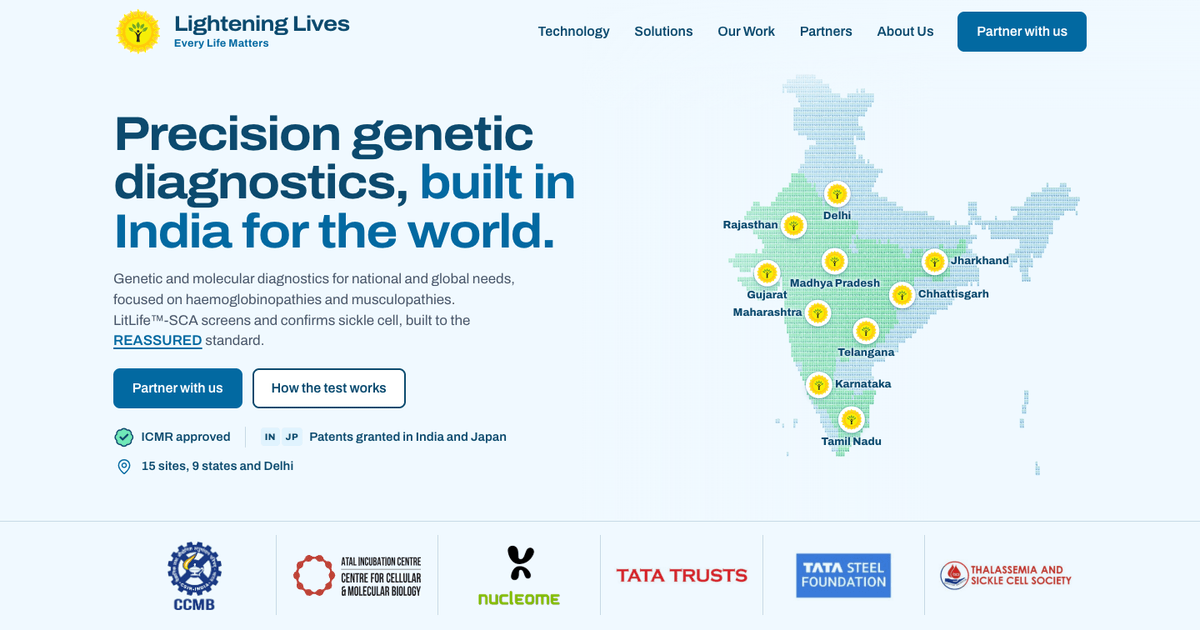
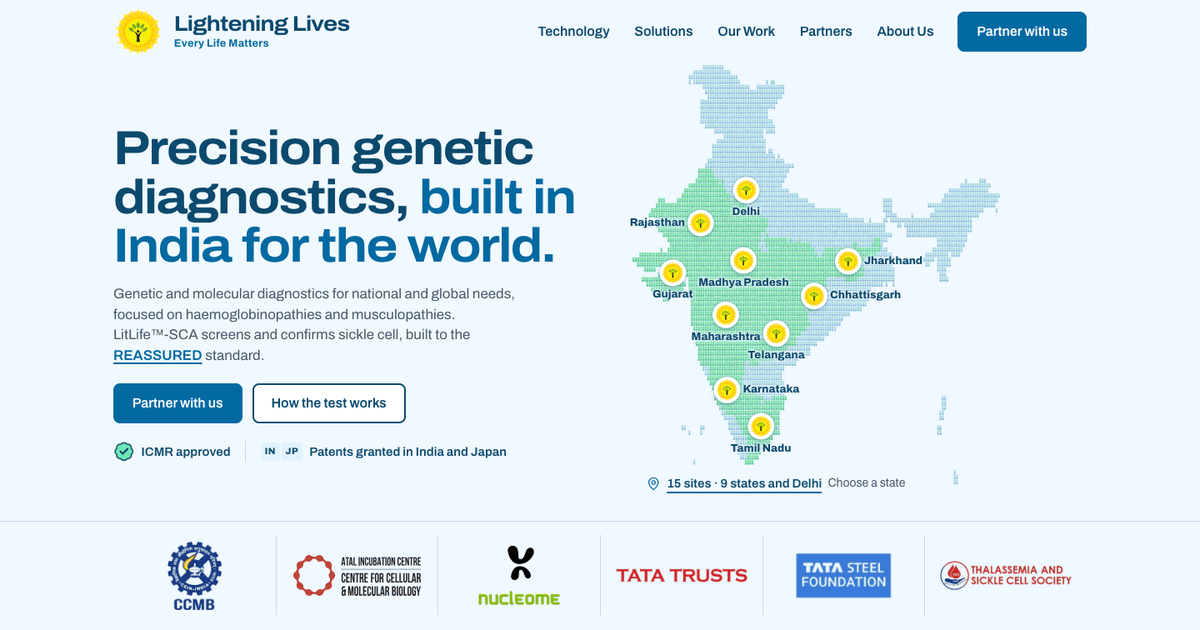
feat: enhance hero section layout and map key visibility based on user feedback

Changed region(s): [[0.0925, 0.181, 0.4933, 0.754], [0.5242, 0.0905, 0.8942, 0.7841], [0.7708, 0.6333, 0.8017, 0.6635]]

diff --git a/src/css/site.css b/src/css/site.css
@@ -1490,7 +1490,7 @@
   .why h3, .criteria h3, .person-name, .policy-h { font-size: 1.125rem; line-height: 1.25; font-stretch: var(--display-stretch); }
   .why p, .criteria p, .about > p { font-size: 1rem; line-height: 1.5; }
   .vision-line { font-size: clamp(1.5rem, 2.6vw, 2.35rem); line-height: 1.16; max-width: 56rem; }
-  .brand-name { font-size: 1.5rem; }
+  .brand-name { font-size: clamp(1.2rem, 5.4vw, 1.5rem); }
 
   /* Space. */
   .section { padding-block: var(--section-y); }
@@ -2968,4 +2968,106 @@ main p { text-wrap: pretty; }
   .page-kicker { margin-bottom: 1rem; }
   .page-open-stacked .page-open-rest { max-width: 54rem; }
   .page-open-stacked .lead { font-size: clamp(1.2rem, 1.7vw, 1.55rem); line-height: 1.6; }
+}
+
+/* The hero's use of space (the user's choice, 5 November 2026, after the impeccable critique:
+   "I feel we are not utilizing the space in the hero section"; "a lot of gap between map and heading").
+   1. Once the film has ended, the text's veil draws back to 1.75rem past the text, so no wash lies over
+      the map's west (it reached 27rem, for the field of cards while the film plays). The reach is a
+      registered length, so it eases. The film's timing is not touched.
+   2. On wide screens the hero, and the home page's header over it, keep to a frame as wide as the
+      text and the map need, so they sit together with even margins instead of a scaled-up column in
+      the middle; the hero's heading stops near 80 px there.
+   3. The map's key (.hero-key): the sites, under the map, once the film has ended (scene.js places it).
+   5. On a phone held upright the film's frame is as tall as the map needs, so the first button is on
+      the first screen (36rem: what the heading, the key, the lead and the space between them take; never
+      under 11rem, so the map stays readable on the smallest phones). */
+@property --veil-reach { syntax: "<length>"; inherits: true; initial-value: 0px; }
+@property --veil-top { syntax: "<length>"; inherits: true; initial-value: 0px; }
+:root {
+  /* As wide as the hero's composition, the text, the gap and the map (whose width its height sets,
+     about 61vh), so on any wide window the two sit together with even margins either side; never
+     narrower than the page's column, never wider than 88vw or 150rem. */
+  --hero-frame: clamp(82rem, calc(var(--text-w) + 2rem + 61vh + 2 * var(--pad)), min(88vw, 150rem));
+}
+@layer components {
+  /* While the film plays the veil reaches 27rem past the text (its field of cards lies behind it). A
+     registered property cannot start at a rem value, so the reach is set here, not in @property. */
+  .hero-veil { --veil-reach: 27rem; --veil-top: 8.25rem; }
+  .hero, :root:has(.hero) .site-header { --frame: var(--hero-frame); --gutter: max(var(--pad), calc((100% - var(--frame)) / 2 + var(--pad))); }
+  @media (min-width: 56.25rem) and (min-aspect-ratio: 21/20) {
+    html.film-live .hero-veil {
+      --veil-edge: var(--text-edge, calc(var(--gutter) + var(--text-w)));
+      background:
+        linear-gradient(180deg, var(--mist) 0, color-mix(in srgb, var(--mist) 90%, transparent) calc(var(--veil-top) * 0.55), transparent var(--veil-top)),
+        linear-gradient(90deg, var(--mist) 0, var(--mist) calc(var(--veil-edge) + 0.5rem),
+          color-mix(in srgb, var(--mist) 88%, transparent) calc(var(--veil-edge) + var(--veil-reach) * 0.148),
+          color-mix(in srgb, var(--mist) 62%, transparent) calc(var(--veil-edge) + var(--veil-reach) * 0.333),
+          color-mix(in srgb, var(--mist) 30%, transparent) calc(var(--veil-edge) + var(--veil-reach) * 0.556),
+          color-mix(in srgb, var(--mist) 10%, transparent) calc(var(--veil-edge) + var(--veil-reach) * 0.778),
+          transparent calc(var(--veil-edge) + var(--veil-reach)));
+      transition: --veil-reach 0.9s cubic-bezier(0.22, 1, 0.36, 1), --veil-top 0.9s cubic-bezier(0.22, 1, 0.36, 1);
+    }
+    [data-film-state="ended"] .hero-veil { --veil-reach: 1.75rem; --veil-top: 5.25rem; }
+  }
+  @media (min-width: 120rem) and (min-aspect-ratio: 21/20) {
+    html.film-live .hero .display { font-size: clamp(2.4rem, 4.3vw, 3.35rem); }
+  }
+
+  /* On a phone held upright, a row under the film; on a wide screen, under the map (scene.js sets
+     --key-x and --key-y); on a phone held sideways, left out. */
+  .hero-key {
+    order: 3;
+    display: flex;
+    flex-wrap: wrap;
+    align-items: center;
+    justify-content: center;
+    gap: 0.15rem 0.45rem;
+    margin: 0.4rem 0 0;
+    font-size: 0.9375rem;
+    font-weight: 600;
+    line-height: 1.3;
+    color: var(--canopy);
+    opacity: 0;
+    visibility: hidden;
+    transition: opacity 0.4s ease, visibility 0s linear 0.4s;
+  }
+  html:not(.film-live) .hero-key { display: none; }
+  @media (max-width: 56.2499rem) { .hero-key { gap: 0.1rem 0.35rem; font-size: 0.875rem; } .hero-key .icon { width: 0.95rem; height: 0.95rem; } .hero-key-hint { font-size: 0.8125rem; } }
+  @media (min-width: 56.25rem) and (min-aspect-ratio: 21/20) {
+    html.film-live .hero-key {
+      position: absolute;
+      z-index: 2;
+      left: var(--key-x, 75%);
+      top: var(--key-y, 85%);
+      transform: translateX(-50%);
+      display: grid;
+      grid-template-columns: auto auto;
+      justify-items: start;
+      width: max-content;
+      margin: 0;
+    }
+    html.film-live .hero-key-hint { grid-column: 2; }
+  }
+  /* A short wide window: one row, the hint after the sites, so the key stays clear of the pins. */
+  @media (min-width: 56.25rem) and (min-aspect-ratio: 21/20) and (max-height: 50rem) {
+    html.film-live .hero-key { grid-template-columns: auto auto auto; }
+    html.film-live .hero-key-hint { grid-column: auto; }
+  }
+  @media (max-width: 56.2499rem) and (max-height: 30rem) and (min-aspect-ratio: 21/20) { html.film-live .hero-key { display: none; } }
+  @media (max-width: 56.2499rem) and (max-height: 37.5rem) { html.film-live .hero-key { display: none; } } /* the shortest phones (320 by 568): the first button first */
+  .hero-key .icon { width: 1.05rem; height: 1.05rem; color: var(--leaf); }
+  .hero-key .link { color: var(--canopy); white-space: nowrap; }
+  .hero-key-hint { font-weight: 400; font-size: 0.875rem; color: var(--moss); }
+  [data-film-state="ended"] .hero-key { opacity: 1; visibility: visible; transition: opacity 0.6s ease 0.15s; }
+  @media (prefers-reduced-motion: reduce) { .hero-key, [data-film-state="ended"] .hero-key { transition: none; } }
+
+  @media (max-aspect-ratio: 1/1) {
+    html.film-live .film-screen { height: max(11rem, min(76vw, 58vh, calc(125vh - 36rem))); }
+  }
+  @supports (height: 100svh) {
+    @media (max-aspect-ratio: 1/1) {
+      html.film-live .film-screen { height: max(11rem, min(76vw, 58svh, calc(125svh - 36rem))); }
+    }
+  }
 }

diff --git a/src/js/site/scene.js b/src/js/site/scene.js
@@ -85,15 +85,16 @@ const SKY = Math.PI - KEY.intensity * (KEY.from.y / KEY.from.length());
 // the available width is the room the text leaves: from the text's widest line, plus `GAP` root ems,
 // to the right edge of the page's column (R3: the map once ran under the text on wide screens, where
 // a fixed share of the column was used). The subject sits a little low, clear of the header.
-const WIDE = { across: 0.96, up: 0.86, shiftY: -0.032 };
-const NARROW = { across: 0.9, up: 0.86, shiftY: 0 }; // the film in a frame of its own, text above and below
+const WIDE = { across: 0.96, up: 0.9, shiftY: -0.032 };
+const NARROW = { across: 0.92, up: 0.94, shiftY: 0 }; // the film in a frame of its own, text above and below
 // The room runs past the page's column, to EDGE root ems from the window's right edge: the client
 // review (P1, 27 October 2026) asked for a larger map where the space allows it. The map's far east
 // (the north-east states and the islands) may sit past the column; the pins stay well inside it.
 const EDGE = 2;
 const REACH = 8; // and never more than this many root ems past the column, so a very wide window keeps the map by the text
-const GAP = 4.5; // rem between the text's widest line and the subject's room: the page's veil is solid
-// for 3rem past that line and gone by 5rem (site.css, .hero-veil)
+const GAP = 2; // rem between the text's widest line and the subject's room: once the film has ended the
+// page's veil is solid to half a rem past that line and gone by 1.75rem (site.css, .hero-veil; 4.5rem
+// until 5 November 2026, when the user found "a lot of gap between map and heading")
 
 // The camera's one take. Each row is where the camera is at that second (`at`); between rows it
 // follows a smooth curve through them (see `curve`), so it has no stop to arrive at or to leave: it
@@ -383,6 +384,7 @@ function init(root) {
   const heroText = root.querySelector('[data-hero-text]');
   const placeList = root.querySelector('[data-places]');
   const placesWrap = root.querySelector('[data-places-wrap]');
+  const mapKey = root.querySelector('[data-hero-key]'); // the line under the map once the film ends (5 November 2026)
   const foot = root.querySelector('.hero-foot'); // the partners' band, laid over the film's foot on a wide screen
   const placeLabels = new Map([...root.querySelectorAll('[data-place]')].map((el) => [el.dataset.place, el]));
 
@@ -1019,6 +1021,19 @@ function init(root) {
         name.style.visibility = 'hidden';
       }
     });
+    // The map's key goes under the lowest pin or name, centred on them (site.css, .hero-key).
+    if (mapKey && taken.length) {
+      const l = Math.min(...taken.map((b) => b.l));
+      const rr = Math.max(...taken.map((b) => b.r));
+      // Never reaching back past the text: its left edge stays a rem clear of the text's widest line.
+      const half = (mapKey.offsetWidth || 0) / 2;
+      const x = Math.max((l + rr) / 2, (view.textRight ?? -Infinity) + half);
+      mapKey.style.setProperty('--key-x', `${x.toFixed(1)}px`);
+      // Under the lowest pin or name, and inside the frame (a phone held sideways has little height).
+      const rem = parseFloat(getComputedStyle(document.documentElement).fontSize) || 16;
+      const y = Math.min(Math.max(...taken.map((b) => b.b)) + 0.75 * rem, view.height - (view.band || 0) - (mapKey.offsetHeight || 0) - 0.5 * rem);
+      mapKey.style.setProperty('--key-y', `${y.toFixed(1)}px`);
+    }
   }
 
   // Whether the film is playing, paused (a hidden tab) or over, for the stylesheet.
@@ -1095,6 +1110,20 @@ function init(root) {
     heroText.querySelectorAll('a, button').forEach((el) => { edge = Math.max(edge, el.getBoundingClientRect().right); });
     return edge;
   }
+  // Where the subject's middle goes across the frame, in page pixels. In the wide layout, when the
+  // map's height is what limits it (it is narrower than its room), it keeps to the left of its room,
+  // beside the text, and the spare width lies beyond it rather than between it and the heading (the
+  // user, 5 November 2026: "a lot of gap between map and heading"). Otherwise it is centred.
+  function subjectCentre(room) {
+    const middle = room.left + room.width / 2;
+    if (view.layout !== WIDE) return middle;
+    const last = TAKE[TAKE.length - 1];
+    const tan = Math.tan((FOV * DEG) / 2);
+    const across = last.span / (2 * tan * view.aspect * view.across);
+    const up = last.tall / (2 * tan * view.up);
+    const used = across / Math.max(across, up); // the share of the subject's width that the map fills
+    return middle - (room.width * view.layout.across * (1 - used)) / 2;
+  }
   function resize() {
     const width = mount.clientWidth;
     const height = mount.clientHeight;
@@ -1119,7 +1148,6 @@ function init(root) {
       room = { left, width: Math.max(right - left, width * 0.2) };
     }
     view.across = (room.width * view.layout.across) / width;
-    view.shiftX = (room.left - whole.left + room.width / 2) / width - 0.5;
     // The opening is at least 36rem tall, so on a short window (a phone held sideways, a television's
     // browser at 960 by 540) it runs past the first screen: the subject is fitted into the part of it
     // that is on the first screen, so the map is never cut by the fold (R3, defect 3).
@@ -1127,7 +1155,9 @@ function init(root) {
     const band = view.layout === WIDE && foot && getComputedStyle(foot).position === 'absolute' ? foot.offsetHeight : 0;
     const shown = clamp(Math.min(window.innerHeight - (whole.top + window.scrollY), height) - band, height * 0.5, height);
     view.up = view.layout.up * (shown / height);
+    view.band = band; // the partners' band over the film's foot, which the map's key keeps above
     view.shiftY = 0.5 - (shown * (0.5 - view.layout.shiftY)) / height;
+    view.shiftX = (subjectCentre(room) - whole.left) / width - 0.5;
     renderer.setPixelRatio(view.ratio);
     renderer.setSize(width, height, false);
     camera.aspect = view.aspect;
